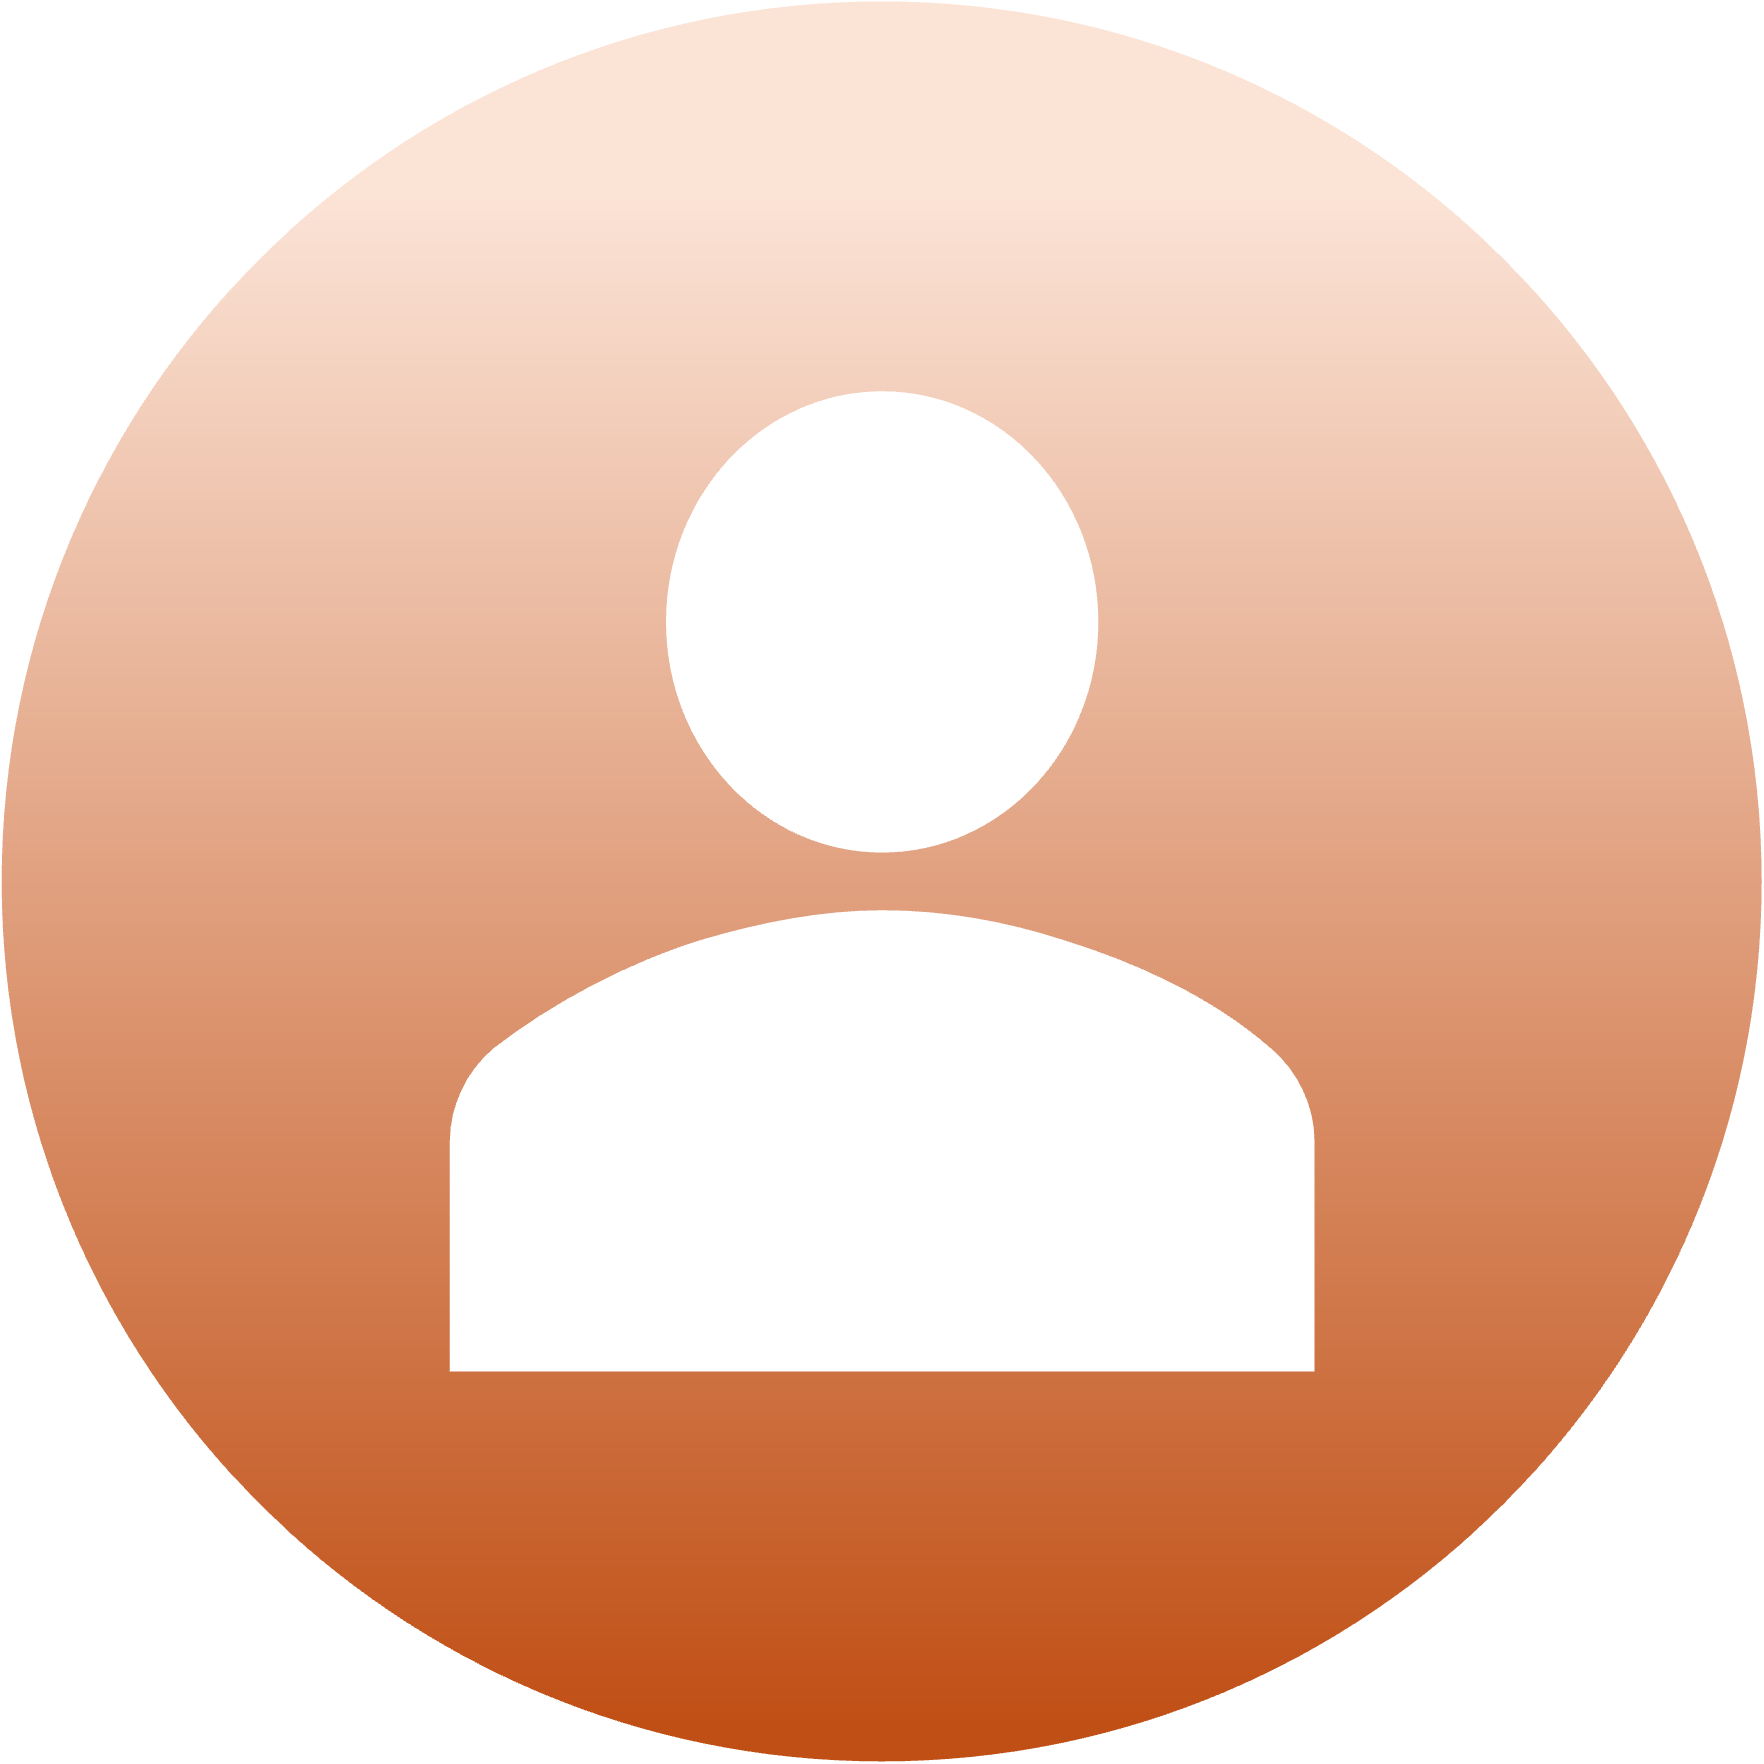
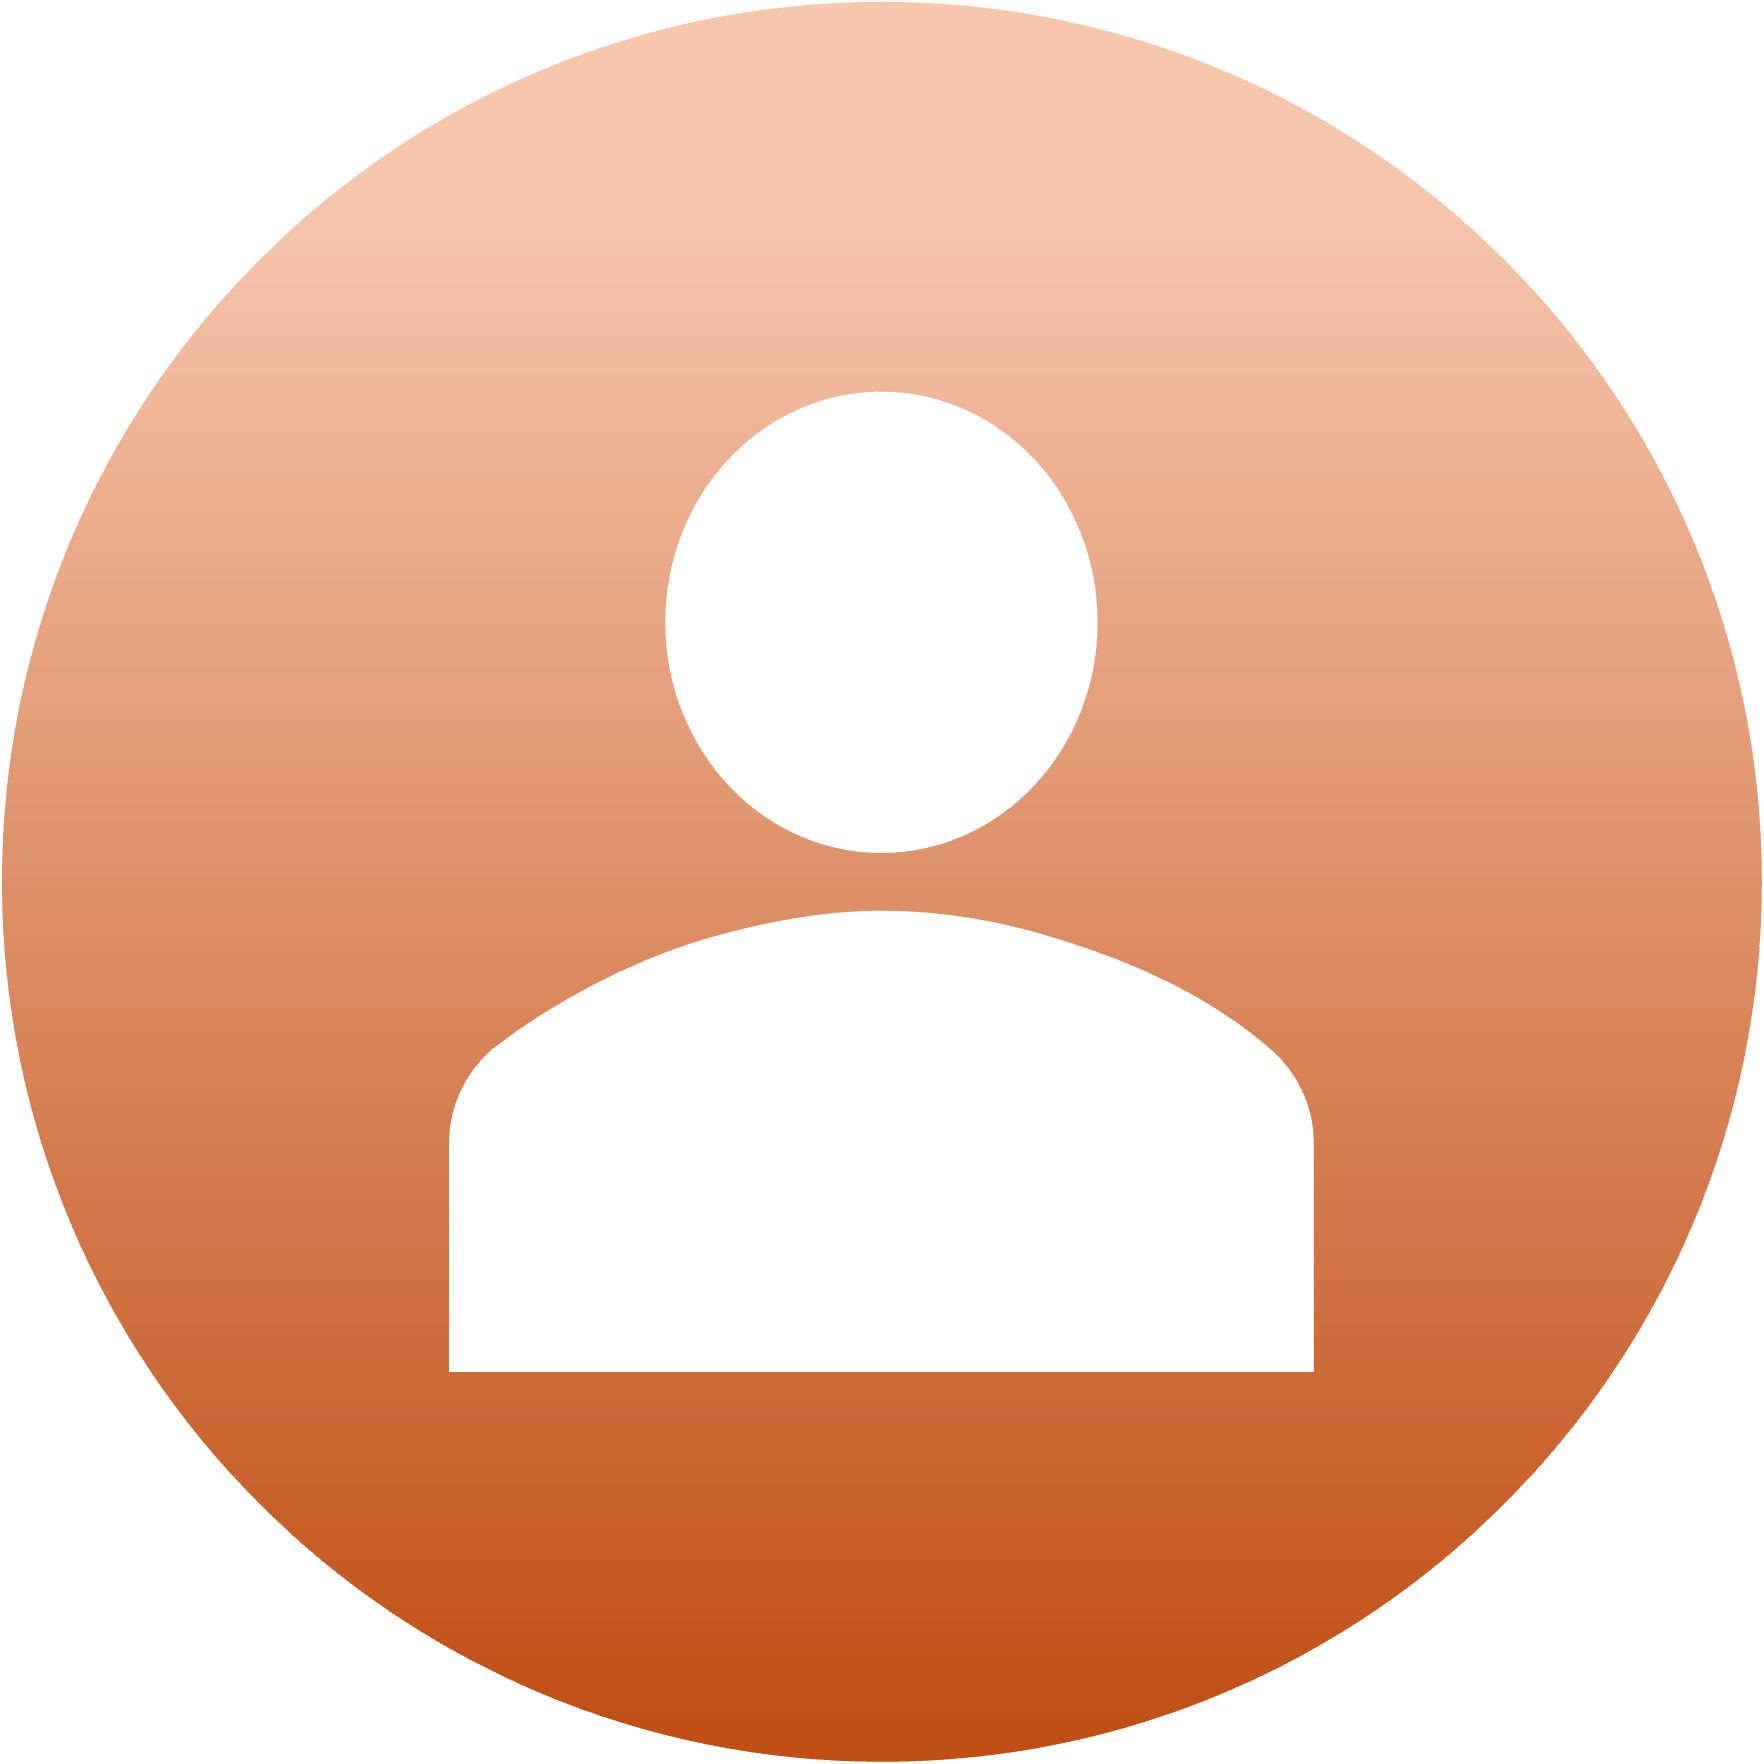
update fetch, add project layout

diff --git a/_layouts/project.html b/_layouts/project.html
@@ -1,0 +1,113 @@
+---
+layout: page
+---
+
+{% assign current_project = site.data.airtable | where: "project", page.title | first %}
+{% assign pubs = site.data.publications | where: "project", page.title %}
+
+
+<div class="container">
+  <div class="box-overview" style="box-shadow: -10px 10px {{ current_project.color }};">
+    <div class="row justify-content-around">
+      <div class="col-lg-4" align="center">
+        <br>
+        <img src="{{ current_project.logoPath }}" width="150" style="margin-bottom:20px;">
+      </div>
+      <div class="col-lg-8" align="left" style="margin-top:10px;">
+        <p class="overview"><img src="/assets/img/status.png" class="overview-icon"> <b>Status: <code>{{ current_project.status }}</code></b></p>
+        <p class="overview"><img src="/assets/img/email.png" class="overview-icon"> <b>Contact: <code>{{ current_project.contact }}</code></b></p>
+        {% if current_project.listservSub %}
+         <p class="overview"><img src="/assets/img/email.png" class="overview-icon"> <b>Listserv: <code><a href="{{ current_project.listservSub }}" target="_blank">Subscribe</a></code></b></p>
+        {% endif %}
+        {% if current_project.nTested %} <!--- if data collection complete -->
+          <p class="overview"><img src="/assets/img/people.png" class="overview-icon"> <b>{{ current_project.nTested }} babies</b> tested by <b>{{current_project.labs }} labs</b></p>
+        {% endif %}
+        {% for pub in pubs %} <!--- loop over pubs for specified project -->
+          {% if pub.journalLink %} <!--- journal pubs -->
+            <p class="overview"><img src="/assets/img/paper.png" class="overview-icon"> <b>{{ pub.nAuthors }} authors</b> from <b>{{ pub.nCountries }} countries</b> on <i><b><a href="{{ pub.journalLink }} " target="_blank">{{ pub.journal }}</a></b></i> publication</p>
+          {% else %} <!--- preprints -->
+            <p class="overview"><img src="/assets/img/paper.png" class="overview-icon"> <b>{{ pub.nAuthors }} authors</b> from <b>{{ pub.nCountries }} countries</b> on <i><b><a href="{{ pub.preprintLink }} " target="_blank">{{ pub.journal }}</a></b></i> preprint</p>
+          {% endif %}
+        {% endfor %}
+        {% if current_project.datapage %} <!--- if project has datapage -->
+          <p class="overview"><img src="/assets/img/data.png" class="overview-icon"> <a href="{{ current_project.datapage }}" target="_blank"><b>Explore the MB1 datapage</b></a></p>
+        {% endif %}
+      </div>
+    </div>
+  </div>
+
+  <hr>
+  
+  <!-- Page-specific content from the individual project .md file renders here -->
+  {{ content }}
+  
+  <hr>
+
+  <h2>Project Leads</h2>
+  <ul>
+  {% for lead in current_project.leads %}
+    <li>
+      {% if lead.orcid %}
+        <b><a href="{{ lead.site }}" target="_blank">{{ lead.name }}</a></b>, <i>{{ lead.institution }}</i> <a href="{{ lead.orcid }}" target="_blank"><img src="/assets/img/orcid.png" height="15"></a> <a href="mailto:{{ lead.email }}">[email]</a>
+      {% else %}
+        <b><a href="{{ lead.site }}" target="_blank">{{ lead.name }}</a></b>, <i>{{ lead.institution }}</i> <a href="mailto:{{ lead.email }}">[email]</a>
+      {% endif %}{% unless forloop.last %}<br> {% endunless %}
+    </li>
+  {% endfor %}
+  </ul>
+
+  <hr>
+
+  <h2>Spin-off Projects</h2>
+  {% assign spinoffs = site.data.airtable | where: "type", "Spin-off" | where: "mainProject", page.title %}
+  <ul>
+  {% for spinoff in spinoffs %} <!--- loop over spinoff projects -->
+    <li><img src="{{ spinoff.logoPath }}" alt="{{ spinoff.project}} logo" width="20"> <b><a href="https://{{spinoff.website }}">{{spinoff.project}}</a>: {{ spinoff.description }} </b></li>
+  {% endfor %}
+  {% assign secondary = site.data.airtable | where: "type", "Secondary analysis" | where: "mainProject", page.title %}
+  {% for item in secondary %} <!--- loop over secondary projects -->
+    <li><img src="{{ item.logoPath }}" alt="{{ item.project}} logo" width="20"> <b><a href="https://{{item.website }}">{{item.project}}</a>: {{ item.description }} </b></li>
+  {% endfor %}
+  </ul>
+  
+  <hr>
+  
+  <h2>{{ page.title }} Contributors</h2>
+  {% if current_project.contributors %}
+    <blockquote>NOTE: Default table ordering is by contributor's first name. You can filter, group, and/or sort entries by any field.</blockquote>
+    <iframe class="airtable-embed" src="{{ current_project.contributors }}" frameborder="0" onmousewheel="" width="100%" height="533" style="background: transparent; border: 1px solid #ccc;"></iframe>
+  {% else %}
+    <blockquote>Contributor list coming soon!</blockquote>
+  {% endif %}
+  
+  <hr>
+  
+  <h2>Publications</h2>
+  
+  {% assign pubs = site.data.publications | where: "project", page.title %}
+  {% for pub in pubs %} <!--- loop over pubs for specified project -->
+    <div class="container">
+      <div class="row">
+        <div class="col-sm-2" align="center">
+          <a href="https://{{pub.website }}"><img src="{{ pub.logoPath }}" alt="{{ pub.project}} logo" width="70" style="margin-top:4px;"></a>
+        </div>
+        <div class="col-sm-10">
+          {{ pub.authorsCondensed }} ({{ pub.year }}). <b>{{pub.title}}</b>. <i>{{pub.journal}}</i>, <i>{{pub.issue}}</i>({{ pub.issue }}), {{ pub.pages }}. <a href="{{ pub.journalLink }}" target="_blank">{{ pub.journalLink}}</a>
+          <details>
+            <summary><code>View full author list</code></summary> <!--- expandable author list with orcids -->
+            <div style="margin-left: 2em;">
+              {% for author in pub.authors %}
+                {% if author.orcid %}
+                  {{ author.name }} <a href="{{ author.orcid }}"><img src="/assets/img/orcid.png" height="15"></a> 
+                {% else %}
+                  {{ author.name }}
+                {% endif %}{% unless forloop.last %}<br> {% endunless %}
+              {% endfor %}
+            </div>
+          </details>
+        </div>
+      </div>
+    </div>  
+  {% endfor %}
+
+</div>

diff --git a/scripts/fetch-airtable.js b/scripts/fetch-airtable.js
@@ -115,6 +115,7 @@ async function main() {
       datapage: f.Datapage || null,
       paper: f['Paper (website)'] || null,
       leads: leadNames,
+      contributors: f['Contributor table'] || null,
       logoPath: f['Logo Path'] || null,
       contact: f['Project Contact'] || null,
       listservSub: f['Listserv Subscribe'],
@@ -177,6 +178,8 @@ async function main() {
       website: f.Website,
       fullCitation: f['Full Citation']};
   });
+  
+  publications.sort((a, b) => b.year - a.year);
 
   fs.writeFileSync('_data/publications.json', JSON.stringify(publications, null, 2));
   console.log(`Wrote ${publications.length} records to _data/publications.json`);

diff --git a/assets/css/beautifuljekyll.css b/assets/css/beautifuljekyll.css
@@ -1139,12 +1139,12 @@ pre {
 
 p.overview {
   font-size: 1.2rem;
-  padding-left: 25px; 
-  text-indent: -25px;
+  padding-left: 30px; 
+  text-indent: -30px;
   margin: .7rem 0;
 }
 
 .overview-icon {
-  width: 20px;
+  width: 25px;
   margin-bottom:3px;
 }

diff --git a/MB9.md b/MB9.md
@@ -17,17 +17,23 @@ subtitle: Perceptual Specialization
       </div>
       <div class="col-lg-8" align="left" style="margin-top:10px;">
         <p class="overview"><img src="/assets/img/status.png" class="overview-icon"> <b>Status: <code>{{ current_project.status }}</code></b></p>
-        <p class="overview"><img src="/assets/img/email.png" class="overview-icon"> <b>Contact: <a href="mailto:{{ current_project.contact }}"><code>{{ current_project.contact }}</code></a></b></p>
-        {% if current_project.nTested %}
+        <p class="overview"><img src="/assets/img/email.png" class="overview-icon"> <b>Contact: <code>{{ current_project.contact }}</code></b></p>
+        {% if current_project.listservSub %}
+         <p class="overview"><img src="/assets/img/email.png" class="overview-icon"> <b>Listserv: <code><a href="{{ current_project.listservSub }}" target="_blank">Subscribe</a></code></b></p>
+        {% endif %}
+        {% if current_project.nTested %} <!--- if data collection complete -->
           <p class="overview"><img src="/assets/img/people.png" class="overview-icon"> <b>{{ current_project.nTested }} babies</b> tested by <b>{{current_project.labs }} labs</b></p>
         {% endif %}
         {% for pub in pubs %} <!--- loop over pubs for specified project -->
-          {% if pub.journalLink %}
+          {% if pub.journalLink %} <!--- journal pubs -->
             <p class="overview"><img src="/assets/img/paper.png" class="overview-icon"> <b>{{ pub.nAuthors }} authors</b> from <b>{{ pub.nCountries }} countries</b> on <i><b><a href="{{ pub.journalLink }} " target="_blank">{{ pub.journal }}</a></b></i> publication</p>
-          {% else %}
+          {% else %} <!--- preprints -->
             <p class="overview"><img src="/assets/img/paper.png" class="overview-icon"> <b>{{ pub.nAuthors }} authors</b> from <b>{{ pub.nCountries }} countries</b> on <i><b><a href="{{ pub.preprintLink }} " target="_blank">{{ pub.journal }}</a></b></i> preprint</p>
           {% endif %}
         {% endfor %}
+        {% if current_project.datapage %} <!--- if project has datapage -->
+          <p class="overview"><img src="/assets/img/data.png" class="overview-icon"> <a href="{{ current_project.datapage }}" target="_blank"><b>Explore the MB1 datapage</b></a></p>
+        {% endif %}
       </div>
     </div>
   </div>
